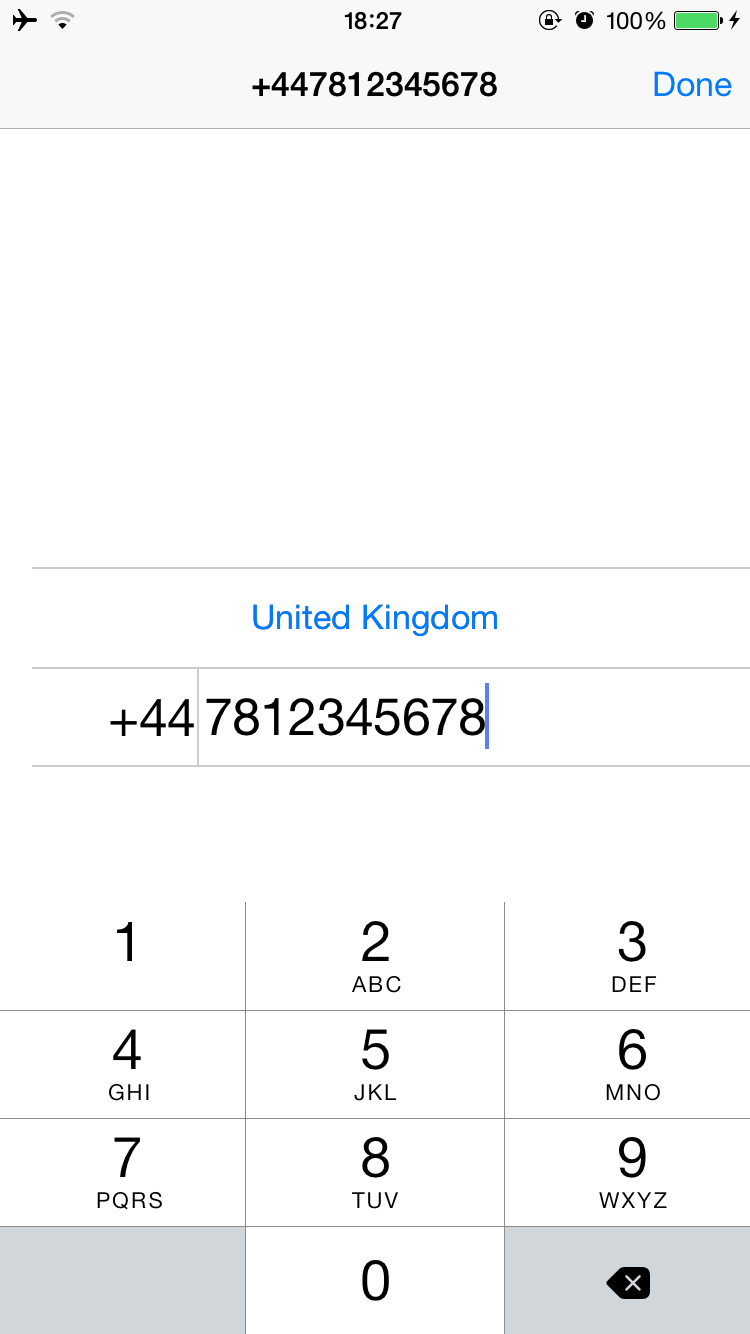
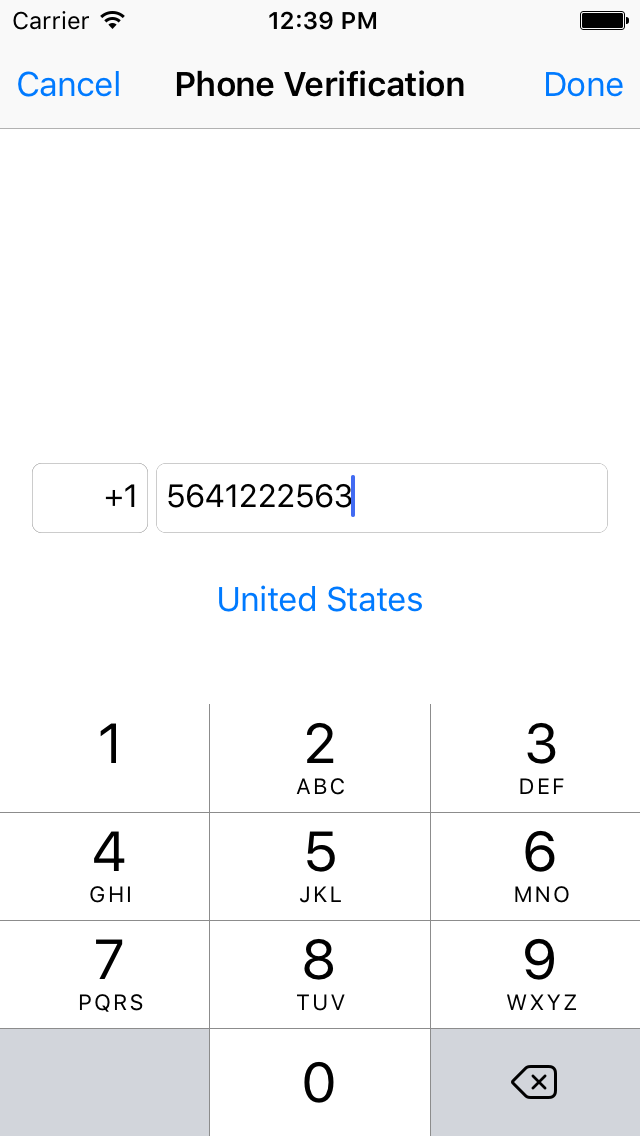
Updated Screenshots
- Added 2 Screenshots.
- Fixed Title Bug.
- Updated Readme.

diff --git a/src/Controller/PhoneNumberViewController.swift b/src/Controller/PhoneNumberViewController.swift
@@ -101,7 +101,7 @@ public final class PhoneNumberViewController: UIViewController, CountriesViewCon
         if let countryText = sender.text where sender == countryTextField {
             country = Countries.countryFromPhoneExtension(countryText)
         }
-        //updateTitle()
+        updateTitle()
     }
     
     
@@ -109,7 +109,7 @@ public final class PhoneNumberViewController: UIViewController, CountriesViewCon
     private func updateCountry() {
         countryTextField.text = country.phoneExtension
         updateCountryTextField()
-        //updateTitle()
+        updateTitle()
     }
     
     private func updateTitle() {
@@ -120,11 +120,11 @@ public final class PhoneNumberViewController: UIViewController, CountriesViewCon
             countryButton.setTitle(country.name, for: UIControlState())
         }
         
-        var title = "Phone Verification"
-        if let newTitle = phoneNumber  {
-            title = newTitle
-        }
-        navigationItem.title = title
+//        var title = "Phone Verification"
+//        if let newTitle = phoneNumber  {
+//            title = newTitle
+//        }
+//        navigationItem.title = title
         
         validate()
     }

diff --git a/README.md b/README.md
@@ -3,8 +3,7 @@ A simple and easy to use view controller enabling you to enter a phone number wi
 
 Screenshots
 --------------
-![alt text](https://github.com/hughbe/PhoneNumberPicker/blob/master/resources/screenshots/1.png "Screenshot 1")
-![alt text](https://github.com/hughbe/PhoneNumberPicker/blob/master/resources/screenshots/2.png "Screenshot 2")
+<img src="img src="resources/screenshots/1.png"  height="400" /><img src="resources/screenshots/2.png"  height="400" />
 
 Installation
 --------------
@@ -17,18 +16,31 @@ Setup
 class ViewController: UIViewController,PhoneNumberViewControllerDelegate {
 
 
-func presentPhoneNumberViewController { //Your function. Can be any name
-   // 2. Create the PhoneNumberViewController
-   let phoneNumberViewController = PhoneNumberViewController.standardController()
 
-   // 3. Set the delegate
-   phoneNumberViewController.delegate = self
+    //present
+    func present(){
+        
+        //create the controller
+        let phoneNumberViewController = PhoneNumberViewController.standardController()
+        
+        //set the delegate
+        phoneNumberViewController.delegate = self
+        
+        //push
+        navigationController?.pushViewController(phoneNumberViewController, animated: true)
+    }
 
-   // 4. Present the PhoneNumberViewController (Navigation Controller)
-   navigationController?.pushViewController(phoneNumberViewController, animated: true)
+    //Delegate Methods
+    func phoneNumberViewControllerDidCancel(_ phoneNumberViewController: PhoneNumberViewController) {
+        self.navigationController?.popViewController(animated: true)
+        print("canceled")
+    }
+
+    func phoneNumberViewController(_ phoneNumberViewController: PhoneNumberViewController, didEnterPhoneNumber phoneNumber: String) {
+        self.navigationController?.popViewController(animated: true)
+        print("phone number: \(phoneNumber)")
+    }
+
 }
 ```
 
-Country Selector
--------------
-You can manually present a `CountriesViewController` to present a list of all countries and their phone extensions to the user
